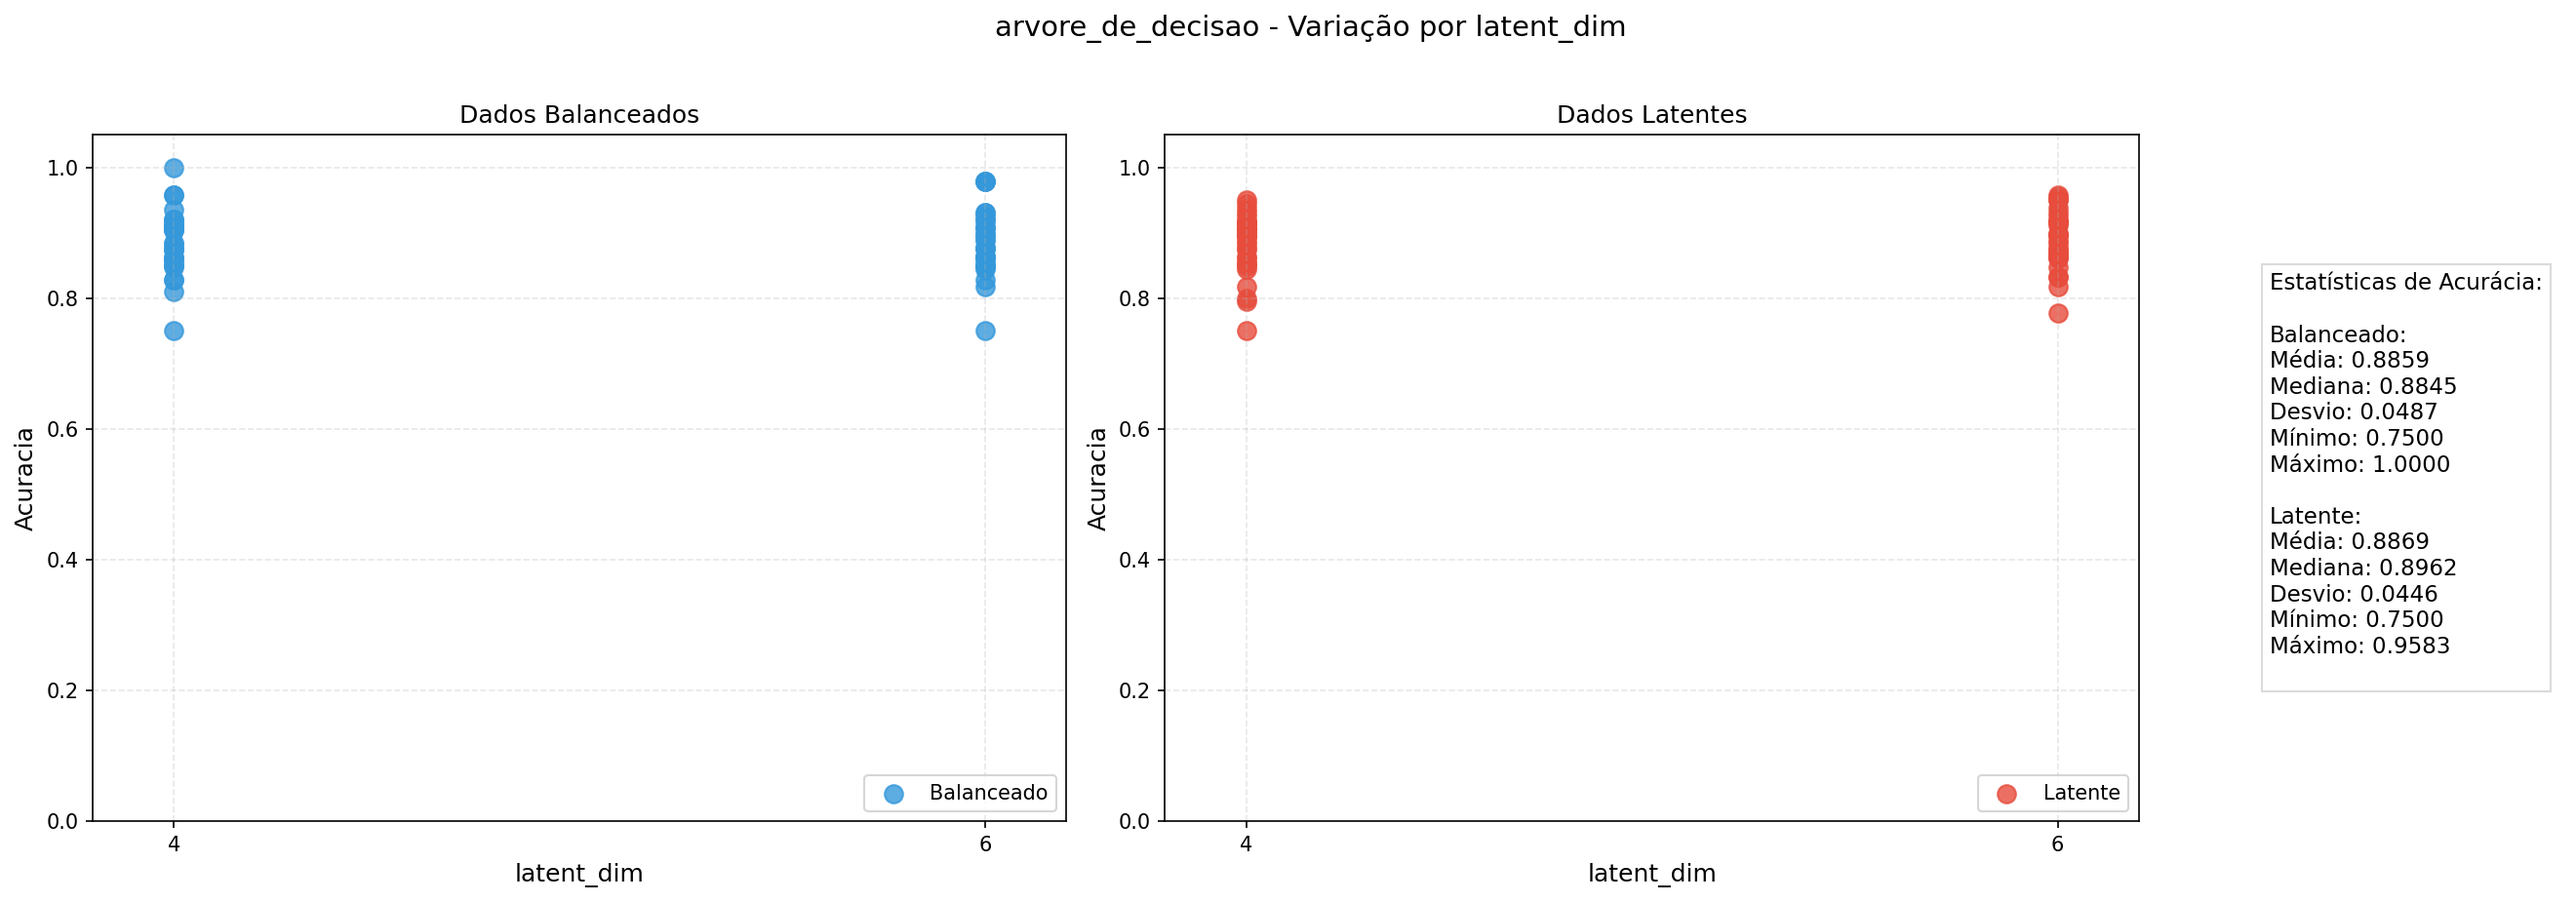
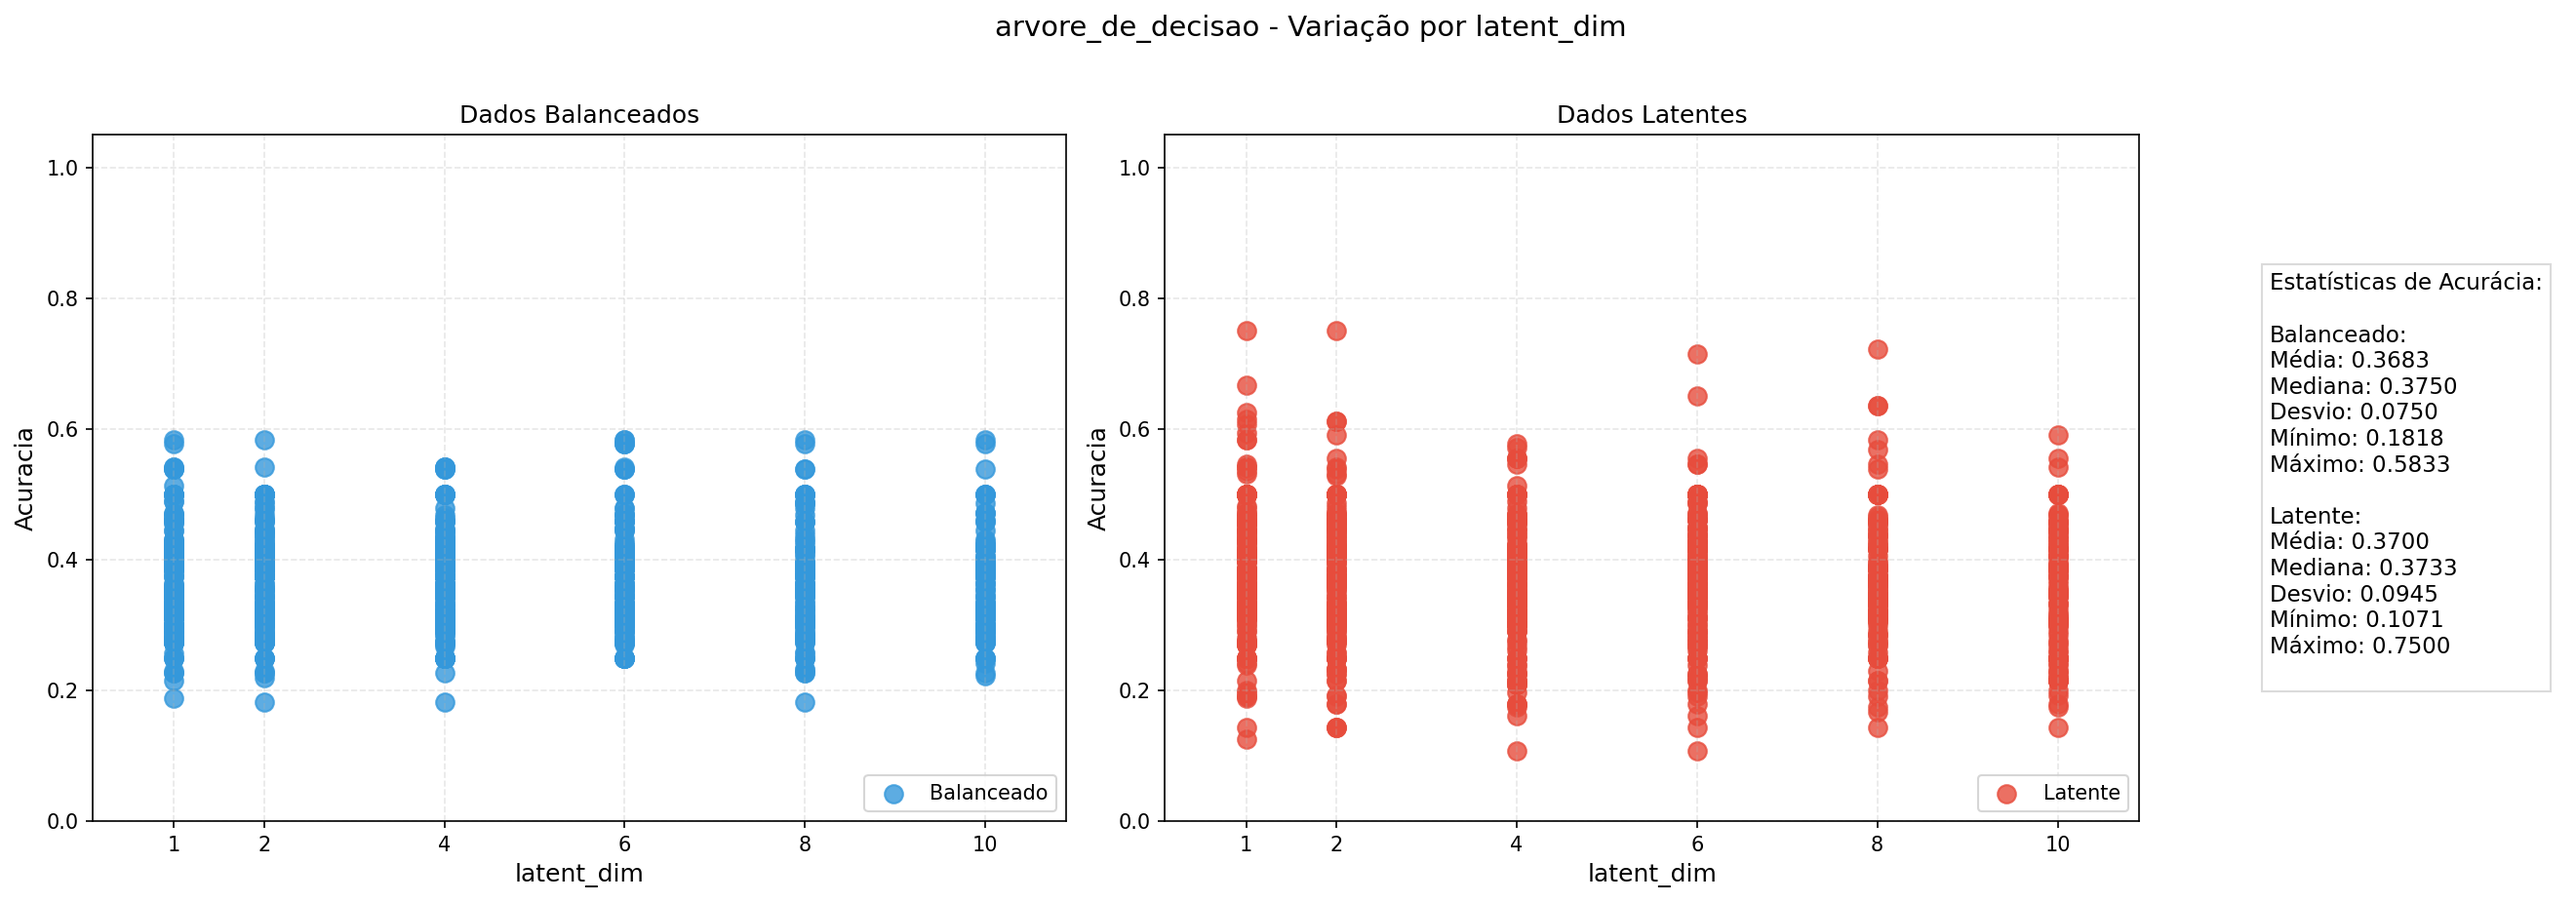
chore: add new experiment run

diff --git a/projeto_atualizado/gridsearch.py b/projeto_atualizado/gridsearch.py
@@ -107,10 +107,10 @@ def busca_grade_completa(
             )
             dfs_processed.append(df_reorg)
         
-        # Combina todos os DataFrames processados
+        
         df_combined = pd.concat(dfs_processed, ignore_index=True)
         
-        # Processamento do arquivo de teste (se existir)
+        
         df_test_balanceado = None
         
         if test_csv:
@@ -274,11 +274,11 @@ if __name__ == "__main__":
 ],  
         lista_time_ranges=[[(0, 18000, 0), (54000, 500000, 1)]],
         lista_grey_zones=[(18000, 54000)],
-        lista_n_amostras=[8, 32],
+        lista_n_amostras=[4,8,12,16,20,24,28,32],
         lista_janelamento=[True],
-        lista_amostras_repetidas=[4, 6],
-        lista_latent_dims=[4, 6],
-        lista_hidden_dims=[64],
+        lista_amostras_repetidas=[2, 4, 6, 8, 10],
+        lista_latent_dims=[1, 2, 4, 6, 8, 10],
+        lista_hidden_dims=[8, 16, 32, 64, 128],
         lista_learning_rates=[0.005],
         lista_epochs=[400],
         lista_batch_sizes=[32],

diff --git a/projeto_atualizado/funcao_analise_balanceado.py b/projeto_atualizado/funcao_analise_balanceado.py
@@ -110,7 +110,7 @@ def plot_balanceado_heatmaps(json_path, output_dir='heatmaps', metric='Acuracia'
 
 # Exemplo de uso
 
-caminho_json = r'classificator_project\resultados_personalizados_20250703_010122\metadados_completos.json'
+caminho_json = r'resultados_personalizados_20250818_162933\metadados_completos.json'
 
 if __name__ == "__main__":
     plot_balanceado_heatmaps(

diff --git a/projeto_atualizado/funcao_analisedados.py b/projeto_atualizado/funcao_analisedados.py
@@ -2,7 +2,7 @@ import json
 import matplotlib.pyplot as plt
 import numpy as np
 
-caminho_json = r'resultados_personalizados_20250703_143321\metadados_completos.json'
+caminho_json = r'resultados_personalizados_20250818_162933\metadados_completos.json'
 
 def carregar_metadados(caminho_arquivo):
     """Carrega os metadados completos de um arquivo JSON."""

diff --git a/projeto_atualizado/funcao_visualizar_parametros.py b/projeto_atualizado/funcao_visualizar_parametros.py
@@ -163,6 +163,6 @@ def plot_accuracy_comparisons(json_path, output_dir='plots', metric='Acuracia'):
 
 if __name__ == "__main__":
 
-    caminho_json = r'resultados_personalizados_20250811_180930\metadados_completos.json'
+    caminho_json = r'resultados_personalizados_20250818_162933\metadados_completos.json'
 
     plot_accuracy_comparisons(caminho_json)
